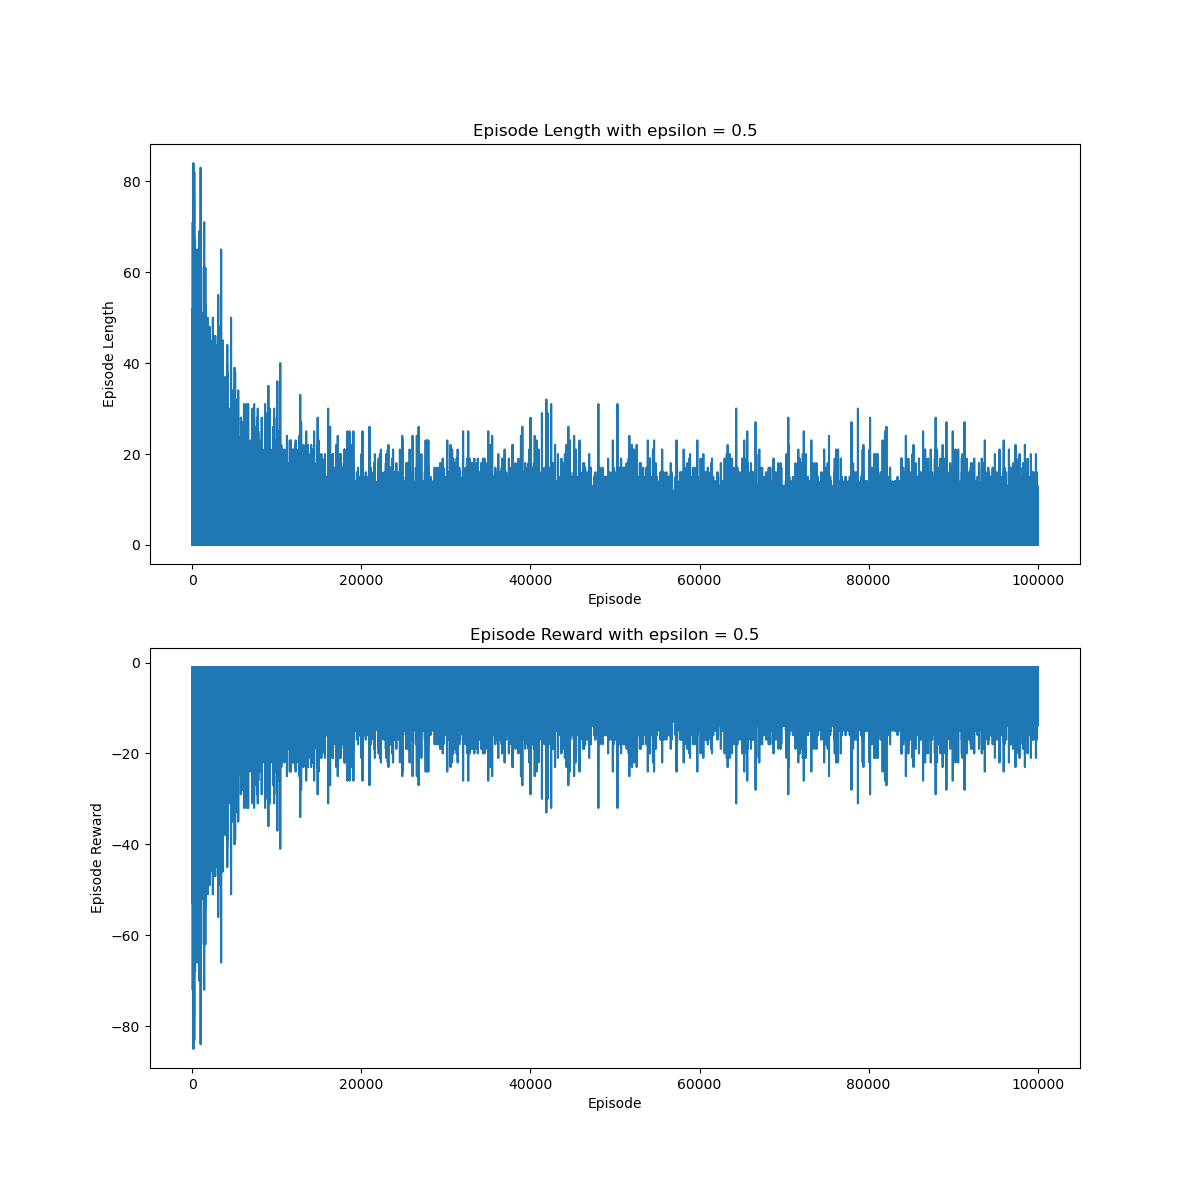
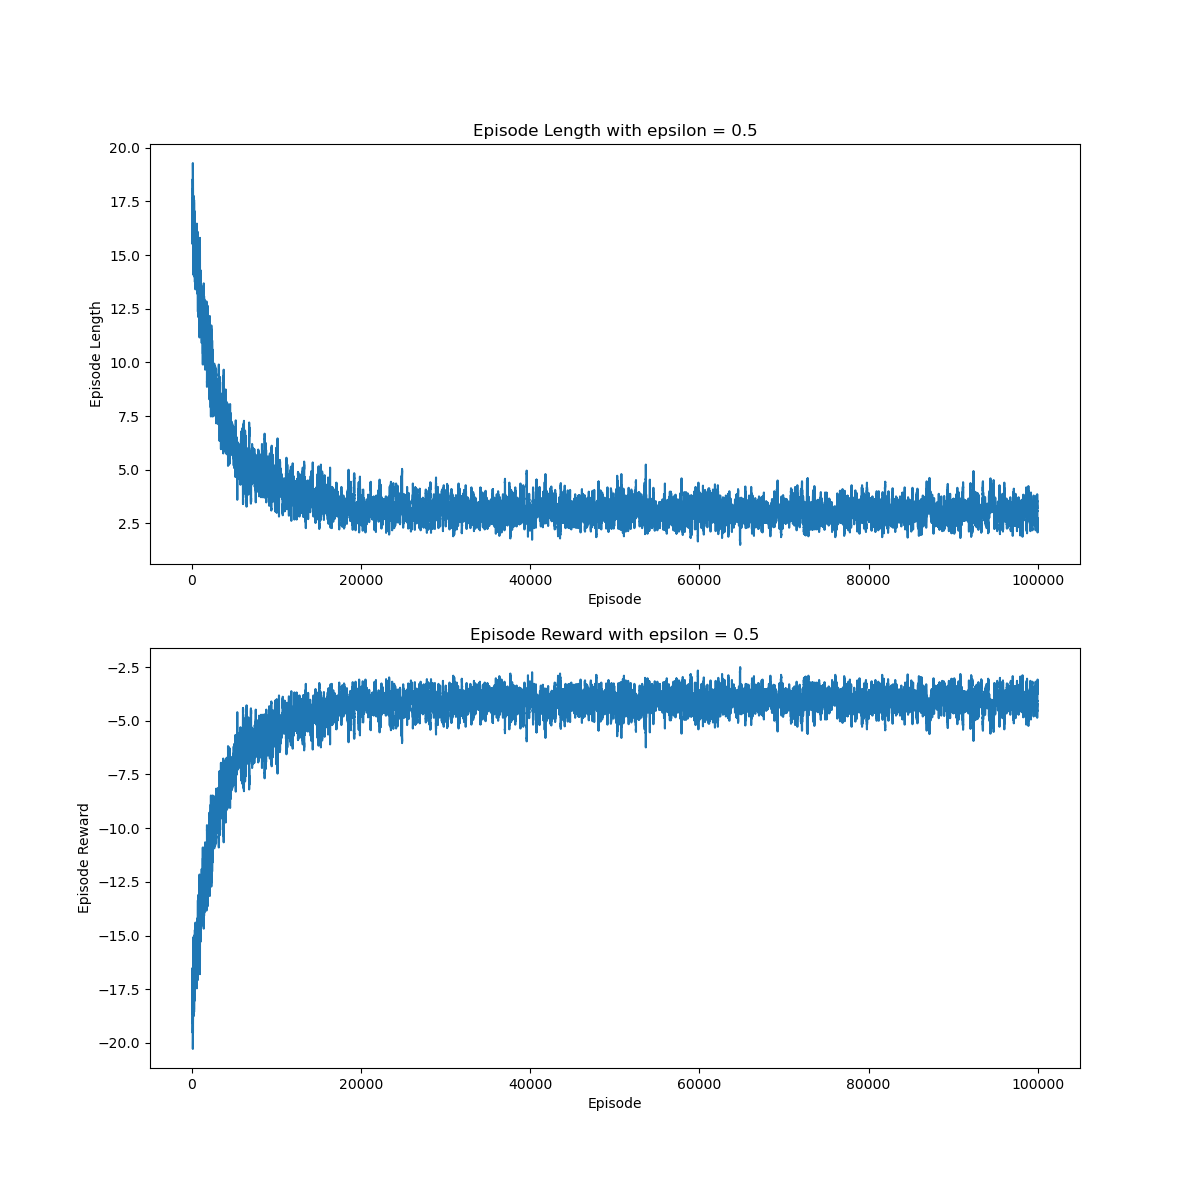
Clean up, add rolling window, and recreate graphs

diff --git a/projects/rl-an-intro/td.py b/projects/rl-an-intro/td.py
@@ -203,75 +203,53 @@ def render(lengths: defaultdict, rewards: defaultdict, epsilon: float,
 
 if __name__ == '__main__':
 
+    rolling_window = 50
+    alphas = [.5, .1, .05, .01, .05, .001]
+    epsilons = [.5, .1, .01, .05, .001]
+    n_trajectories = 100000
+
     # create a model-free mdp to perform value prediction
     env = GeneralDeterministicGridWorldMDP(4, 4)
     behavior_policy = RandomPolicy(env.spec.num_actions)
 
     # generate trajectories from behavior policy
-    n_trajectories = 100000
     trajs = generate_trajectories(env, behavior_policy, n_trajectories)
 
     # generate multiple value predictions using various alphas
-    for alpha in [.5, .1, .05, .01, .05, .001]:
+    for alpha in alphas:
         v = td_0_prediction(env.spec, trajs, alpha, np.zeros(env.spec.num_states))
         print(f'TD(0) value prediction with {alpha=}, {n_trajectories=}, {v=}')
 
     # sarsa
 
-    epsilon = .5
-    q, rewards, lengths = on_policy_1_step_sarsa(env.spec, .001, epsilon, 100000, np.zeros((env.spec.num_states, env.spec.num_actions)))
-    print(f'{q=}')
-
-    render(lengths, rewards, epsilon, 'on_policy_1_step_sarsa_{epsilon}')
-
-    epsilon = .1
-    q, rewards, lengths = on_policy_1_step_sarsa(env.spec, .001, epsilon, 100000, np.zeros((env.spec.num_states, env.spec.num_actions)))
-    print(f'{q=}')
-
-    render(lengths, rewards, epsilon, 'on_policy_1_step_sarsa_{epsilon}')
-
-    epsilon = .01
-    q, rewards, lengths = on_policy_1_step_sarsa(env.spec, .001, epsilon, 100000, np.zeros((env.spec.num_states, env.spec.num_actions)))
-    print(f'{q=}')
-
-    render(lengths, rewards, epsilon, 'on_policy_1_step_sarsa_{epsilon}')
-
-    epsilon = .001
-    q, rewards, lengths = on_policy_1_step_sarsa(env.spec, .001, epsilon, 100000, np.zeros((env.spec.num_states, env.spec.num_actions)))
-    print(f'{q=}')
-
-    render(lengths, rewards, epsilon, 'on_policy_1_step_sarsa_{epsilon}')
+    for epsilon in epsilons:
+        q, rewards, lengths = on_policy_1_step_sarsa(env.spec, .001, epsilon,
+                                                     n_trajectories,
+                                                     np.zeros((env.spec.num_states, env.spec.num_actions)))
+        print(f'{q=}')
+        render(lengths, rewards, epsilon, 'on_policy_1_step_sarsa_{epsilon}',
+               rolling_window=rolling_window)
 
     # q-learning
 
-    epsilon = .5
-    q, rewards, lengths = off_policy_1_step_q_learning(env.spec, .001, epsilon, 100000, np.zeros((env.spec.num_states, env.spec.num_actions)))
-    print(f'{q=}')
+    for epsilon in epsilons:
+        q, rewards, lengths = off_policy_1_step_q_learning(env.spec, .001, epsilon,
+                                                           n_trajectories,
+                                                           np.zeros((env.spec.num_states, env.spec.num_actions)))
+        print(f'{q=}')
+        render(lengths, rewards, epsilon, 'off_policy_1_step_q_learning_{epsilon}',
+               rolling_window=rolling_window)
 
-    render(lengths, rewards, epsilon, 'off_policy_1_step_q_learning_{epsilon}')
-
-    epsilon = .1
-    q, rewards, lengths = off_policy_1_step_q_learning(env.spec, .001, epsilon, 100000, np.zeros((env.spec.num_states, env.spec.num_actions)))
-    print(f'{q=}')
-
-    render(lengths, rewards, epsilon, 'off_policy_1_step_q_learning_{epsilon}')
-
-    epsilon = .01
-    q, rewards, lengths = off_policy_1_step_q_learning(env.spec, .001, epsilon, 100000, np.zeros((env.spec.num_states, env.spec.num_actions)))
-    print(f'{q=}')
-
-    render(lengths, rewards, epsilon, 'off_policy_1_step_q_learning_{epsilon}')
-
-    epsilon = .001
-    q, rewards, lengths = off_policy_1_step_q_learning(env.spec, .001, epsilon, 100000, np.zeros((env.spec.num_states, env.spec.num_actions)))
-    print(f'{q=}')
-
-    render(lengths, rewards, epsilon, 'off_policy_1_step_q_learning_{epsilon}')
+    rolling_window = 25
 
     # create a cliff walking env
+
     # TODO: Refactor this to something general
-    cliff_states = [37, 38, 39, 40, 41, 42, 43, 44, 45, 46]
-    env = CliffWalkingMDP(12, 4, cliff_states,36, 47)
+
+    start_state = 36
+    goal_state = 47
+    cliff_states = list(range(37, 47))
+    env = CliffWalkingMDP(12, 4, cliff_states,start_state, goal_state)
 
     epsilon = .1
     alpha = .5
